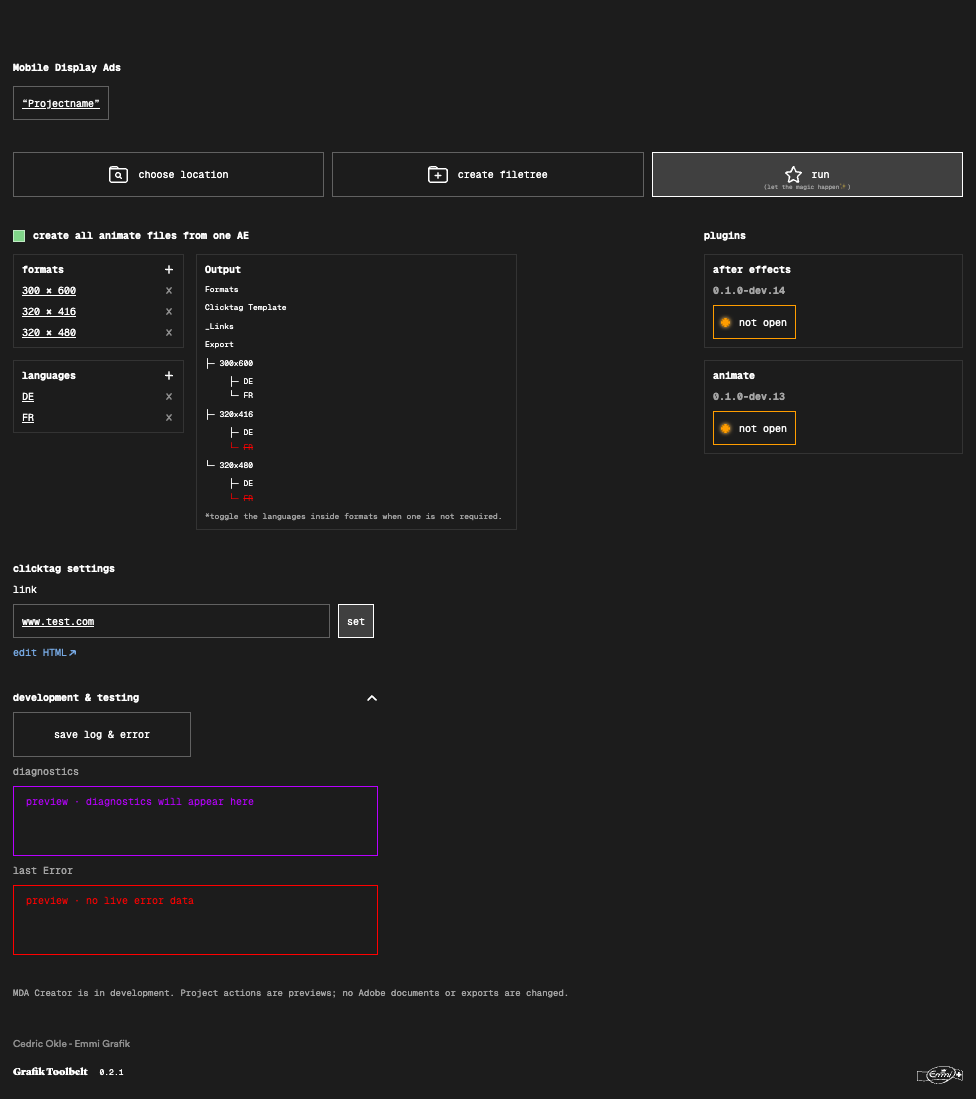
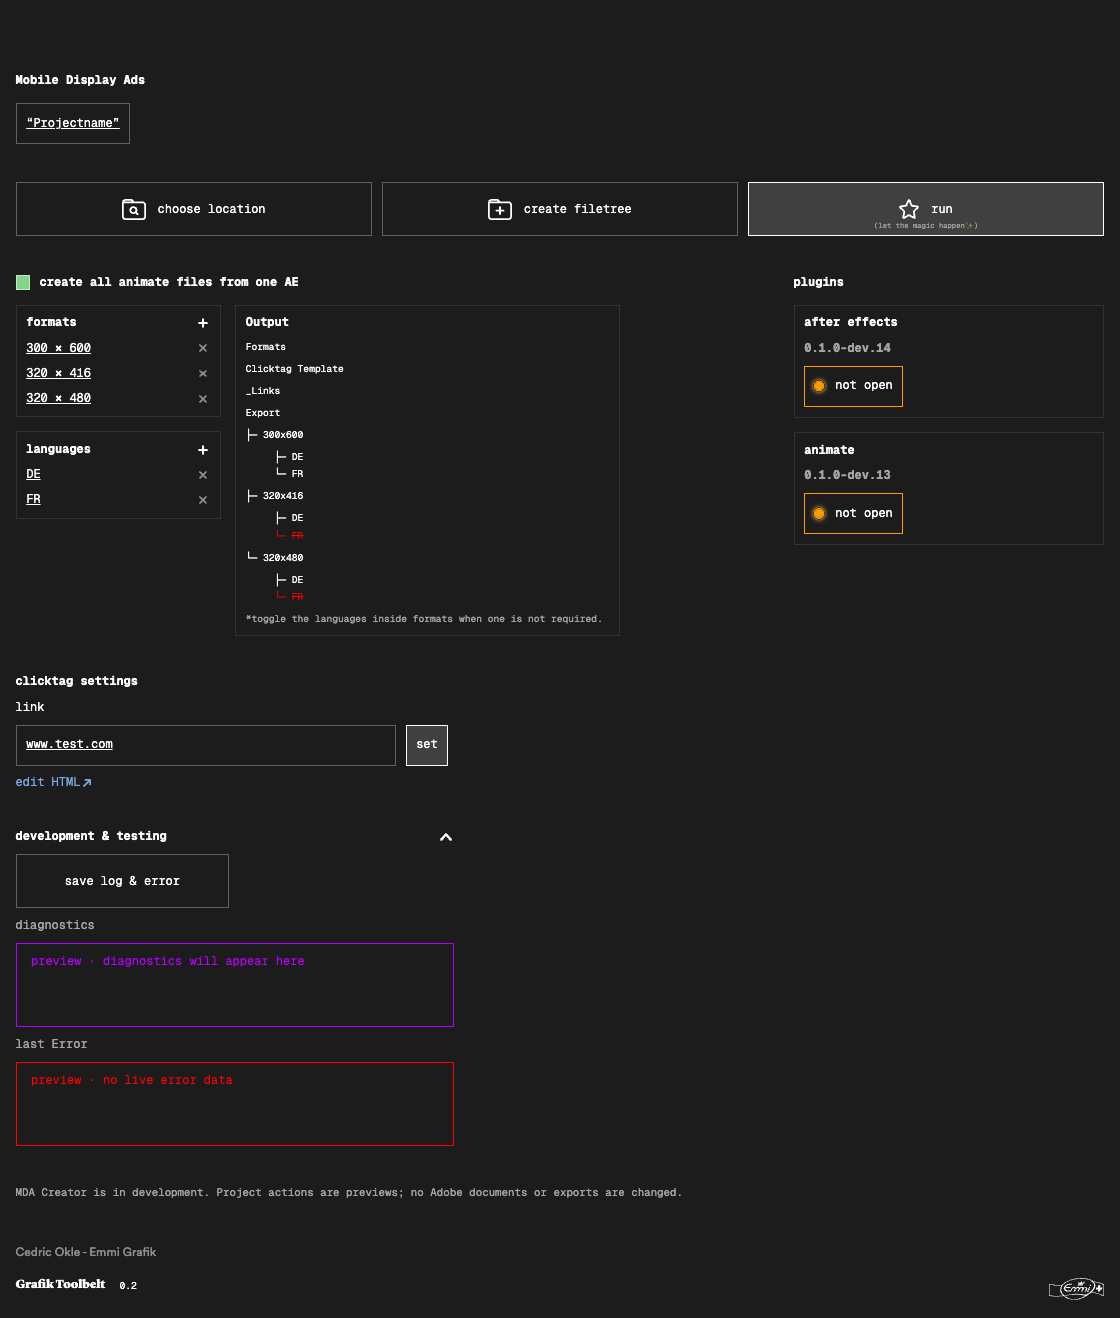
Document Toolbelt 0.2 menu updates and simplified release assets

diff --git a/README.md b/README.md
@@ -17,8 +17,8 @@ Grafik Toolbelt brings installation, updates and standalone creative tools into 
 
 1. Open the **[latest release](https://github.com/oklepunkt/Grafik-Toolbelt-Releases/releases/latest)** and download the `.dmg` file.
 2. Open the DMG and drag **Grafik Toolbelt** into **Applications**.
-3. Open Toolbelt. Use **refresh** to check for updates, or **open** to launch MDA Creator.
-4. To try KeyTween, enable **settings → enable dev builds**, select installer storage, and quit both Adobe apps before installing their panels.
+3. Open Toolbelt. Use **Grafik Toolbelt → Check for Updates**, or **open** to launch MDA Creator.
+4. To try KeyTween, select installer storage when prompted and quit both Adobe apps before installing their panels.
 
 **Requirements:** macOS 13+, Apple Silicon or Intel. The current KeyTween preview targets After Effects 26.x and Animate 24.x with CEP 12.
 
@@ -26,7 +26,9 @@ Grafik Toolbelt brings installation, updates and standalone creative tools into 
 
 Toolbelt reads releases from this public repository—no GitHub account or access token is needed. Plugin downloads are checked before installation; recovery copies remain in your selected Working Folder. Toolbelt app updates download and open a verified DMG; quit the app and replace it in Applications to finish.
 
-Development plugin releases are optional and disabled by default. Installed versions are never automatically downgraded. Refreshing does not replace running Adobe panels.
+Development plugin releases are included by default. Installed versions are never automatically downgraded. Update checks run automatically every 30 minutes while Toolbelt is open and never replace running Adobe panels. Releases contain only the DMG and GitHub’s automatic source archives. Plugin updates are read from the verified DMG.
+
+The interface starts at 120% size. Use the View menu to change its size; your choice is remembered. Upgrading from the old 0.2.1-numbered app to 0.2 requires a manual DMG download once.
 
 ### Preview status
 
